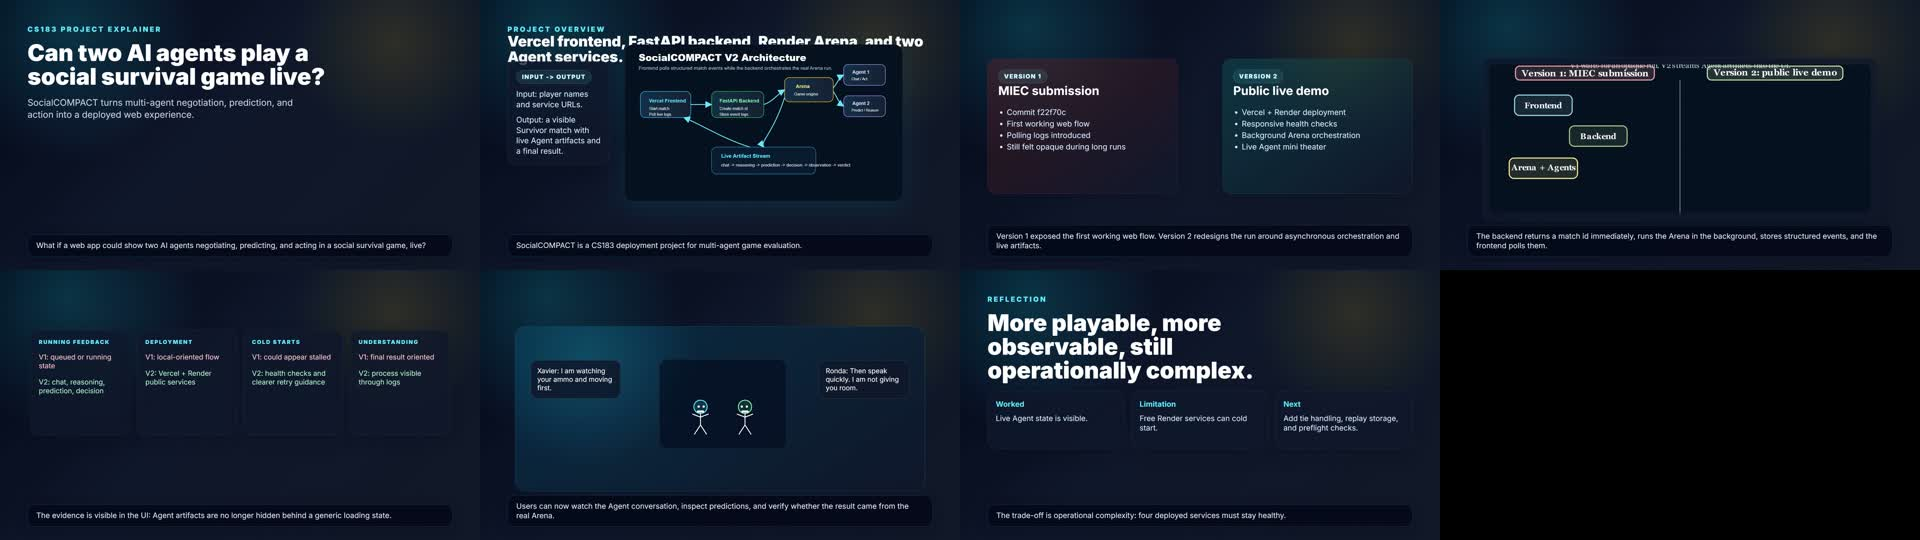
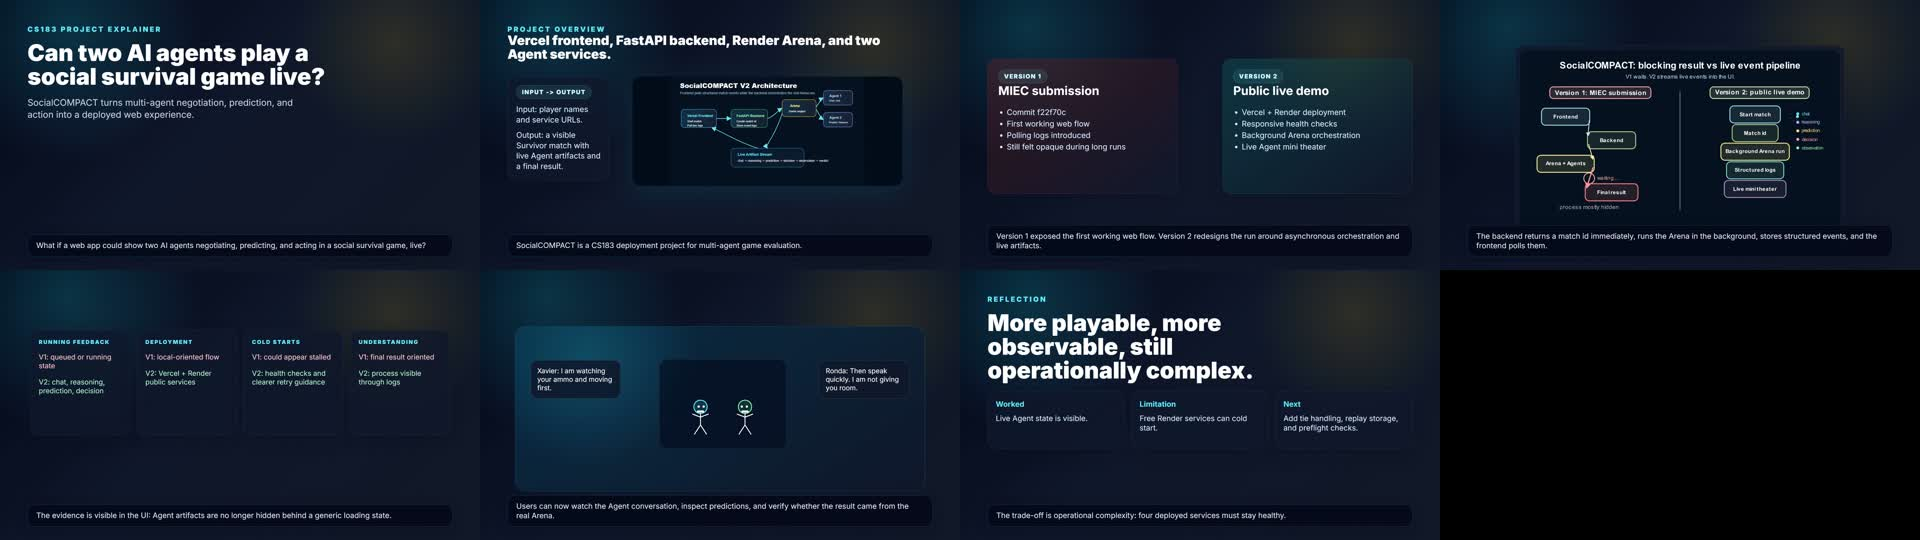
Fix project video layout alignment

Changed region(s): [[0.25, 0.0593, 0.5, 0.3259], [0.75, 0.0889, 1.0, 0.3852]]

diff --git a/project-video/hyperframes/index.html b/project-video/hyperframes/index.html
@@ -131,20 +131,27 @@
       }
 
       .architecture {
-        left: 580px;
-        top: 178px;
-        width: 1110px;
-        height: 626px;
+        left: 610px;
+        top: 306px;
+        width: 1080px;
+        height: 438px;
         border-radius: 34px;
-        object-fit: cover;
+        object-fit: contain;
+        background: #020b18;
         box-shadow: 0 28px 100px rgba(8, 145, 178, 0.16);
       }
 
       .overview-copy {
         left: 110px;
-        top: 245px;
+        top: 306px;
         width: 410px;
         padding: 34px;
+      }
+
+      #overview h2 {
+        max-width: 1540px;
+        font-size: 52px;
+        line-height: 1.06;
       }
 
       .overview-copy p {
@@ -188,11 +195,11 @@
       }
 
       .manim-frame {
-        left: 170px;
-        top: 230px;
-        width: 1580px;
-        height: 650px;
-        padding: 28px;
+        left: 300px;
+        top: 180px;
+        width: 1320px;
+        height: 762px;
+        padding: 22px;
         overflow: hidden;
       }
 
@@ -202,7 +209,7 @@
         height: 100%;
         border-radius: 24px;
         background: #06111f;
-        object-fit: cover;
+        object-fit: contain;
       }
 
       .manim-placeholder {
@@ -214,10 +221,10 @@
       }
 
       .manim-video-clip {
-        left: 198px;
-        top: 258px;
-        width: 1524px;
-        height: 594px;
+        left: 322px;
+        top: 202px;
+        width: 1276px;
+        height: 718px;
         box-shadow: inset 0 0 0 1px rgba(255, 255, 255, 0.08);
       }
 

diff --git a/project-video/manim/socialcompact_pipeline.py b/project-video/manim/socialcompact_pipeline.py
@@ -13,12 +13,14 @@ class SocialCompactPipeline(Scene):
 
         title = Text(
             "SocialCOMPACT: blocking result vs live event pipeline",
-            font_size=34,
+            font="Arial",
+            font_size=30,
             weight=BOLD,
         ).to_edge(UP)
         subtitle = Text(
-            "V1 waits for an opaque run. V2 streams Agent artifacts into the UI.",
-            font_size=21,
+            "V1 waits. V2 streams live events into the UI.",
+            font="Arial",
+            font_size=18,
             color=BLUE_A,
         ).next_to(title, DOWN, buff=0.18)
 
@@ -27,8 +29,8 @@ class SocialCompactPipeline(Scene):
 
         left_label = self.section_label("Version 1: MIEC submission", RED_A)
         right_label = self.section_label("Version 2: public live demo", GREEN_A)
-        left_label.move_to(LEFT * 3.55 + UP * 2.45)
-        right_label.move_to(RIGHT * 3.55 + UP * 2.45)
+        left_label.move_to(LEFT * 3.55 + UP * 2.12)
+        right_label.move_to(RIGHT * 3.55 + UP * 2.12)
         divider = Line(UP * 2.2, DOWN * 3.1, color=GRAY_B, stroke_opacity=0.55)
         self.play(FadeIn(left_label), FadeIn(right_label), Create(divider))
 
@@ -37,7 +39,7 @@ class SocialCompactPipeline(Scene):
         self.compare_takeaway()
 
     def section_label(self, text, color):
-        label = Text(text, font_size=24, weight=BOLD)
+        label = Text(text, font="Arial", font_size=21, weight=BOLD)
         box = RoundedRectangle(
             corner_radius=0.16,
             width=label.width + 0.45,
@@ -49,7 +51,7 @@ class SocialCompactPipeline(Scene):
         return VGroup(box, label)
 
     def service_box(self, text, color, width=2.15):
-        label = Text(text, font_size=22, weight=BOLD)
+        label = Text(text, font="Arial", font_size=17, weight=BOLD)
         box = RoundedRectangle(
             corner_radius=0.18,
             width=width,
@@ -61,22 +63,24 @@ class SocialCompactPipeline(Scene):
         return VGroup(box, label)
 
     def animate_v1(self):
-        frontend = self.service_box("Frontend", BLUE_B).move_to(LEFT * 5.1 + UP * 1.25)
-        backend = self.service_box("Backend", GREEN_B).move_to(LEFT * 3.05 + UP * 0.1)
+        frontend = self.service_box("Frontend", BLUE_B).move_to(LEFT * 5.1 + UP * 1.05)
+        backend = self.service_box("Backend", GREEN_B).move_to(LEFT * 3.05 + UP * 0.0)
         arena = self.service_box("Arena + Agents", YELLOW_B, width=2.55).move_to(
-            LEFT * 5.1 + DOWN * 1.1
+            LEFT * 5.1 + DOWN * 1.05
         )
         result = self.service_box("Final result", RED_B, width=2.35).move_to(
-            LEFT * 3.05 + DOWN * 2.25
+            LEFT * 3.05 + DOWN * 2.32
         )
 
         arrow1 = Arrow(frontend.get_right(), backend.get_left(), buff=0.16, color=BLUE_A)
         arrow2 = Arrow(backend.get_left(), arena.get_right(), buff=0.18, color=YELLOW_A)
         arrow3 = Arrow(arena.get_right(), result.get_left(), buff=0.16, color=RED_A)
 
-        wait_ring = Circle(radius=0.38, color=RED_A).move_to(LEFT * 4.05 + DOWN * 1.15)
-        wait_text = Text("waiting...", font_size=21, color=RED_A).next_to(wait_ring, DOWN, buff=0.18)
-        hidden = Text("process mostly hidden", font_size=21, color=GRAY_B).move_to(
+        wait_ring = Circle(radius=0.24, color=RED_A).move_to(LEFT * 4.05 + DOWN * 1.7)
+        wait_text = Text("waiting...", font="Arial", font_size=17, color=RED_A).next_to(
+            wait_ring, RIGHT, buff=0.12
+        )
+        hidden = Text("process mostly hidden", font="Arial", font_size=18, color=GRAY_B).move_to(
             LEFT * 4.05 + DOWN * 3.0
         )
 
@@ -95,19 +99,18 @@ class SocialCompactPipeline(Scene):
         self.wait(0.5)
 
     def animate_v2(self):
-        x = 3.45
-        y0 = 1.35
+        x = 3.35
         services = [
-            self.service_box("Start match", BLUE_B, width=2.3).move_to(RIGHT * x + UP * y0),
-            self.service_box("Match id", GREEN_B, width=2.1).move_to(RIGHT * x + UP * 0.55),
-            self.service_box("Background Arena run", YELLOW_B, width=3.1).move_to(
-                RIGHT * x + DOWN * 0.25
+            self.service_box("Start match", BLUE_B, width=2.25).move_to(RIGHT * x + UP * 1.15),
+            self.service_box("Match id", GREEN_B, width=2.05).move_to(RIGHT * x + UP * 0.32),
+            self.service_box("Background Arena run", YELLOW_B, width=3.05).move_to(
+                RIGHT * x + DOWN * 0.51
             ),
-            self.service_box("Structured logs", TEAL_B, width=2.65).move_to(
-                RIGHT * x + DOWN * 1.05
+            self.service_box("Structured logs", TEAL_B, width=2.55).move_to(
+                RIGHT * x + DOWN * 1.34
             ),
-            self.service_box("Live mini theater", PURPLE_B, width=2.9).move_to(
-                RIGHT * x + DOWN * 1.85
+            self.service_box("Live mini theater", PURPLE_B, width=2.75).move_to(
+                RIGHT * x + DOWN * 2.17
             ),
         ]
 
@@ -128,14 +131,16 @@ class SocialCompactPipeline(Scene):
         ]
         event_dots = VGroup()
         for index, (name, color) in enumerate(events):
-            dot = Dot(color=color).scale(1.15).move_to(RIGHT * 1.65 + UP * (0.9 - index * 0.45))
-            label = Text(name, font_size=19, color=color).next_to(dot, RIGHT, buff=0.16)
+            dot = Dot(color=color).scale(0.82).move_to(RIGHT * 5.25 + UP * (1.18 - index * 0.38))
+            label = Text(name, font="Arial", font_size=15, color=color).next_to(
+                dot, RIGHT, buff=0.12
+            )
             event_dots.add(VGroup(dot, label))
 
         self.play(LaggedStart(*[FadeIn(e, shift=RIGHT * 0.15) for e in event_dots], lag_ratio=0.12))
         for event_group in event_dots:
             dot = event_group[0]
-            target = services[-1].get_left() + LEFT * 0.15
+            target = services[-1].get_right() + RIGHT * 0.15
             trail = dot.copy()
             self.play(
                 trail.animate.move_to(target).set_opacity(0.25),
@@ -145,10 +150,11 @@ class SocialCompactPipeline(Scene):
             self.remove(trail)
 
         insight = Text(
-            "The UI can render progress because the run is now an event stream.",
-            font_size=22,
+            "The UI can render progress because the run is an event stream.",
+            font="Arial",
+            font_size=17,
             color=GREEN_A,
-        ).move_to(RIGHT * 3.45 + DOWN * 3.0)
+        ).move_to(RIGHT * 3.35 + DOWN * 2.72)
         self.play(Write(insight), run_time=1.0)
         self.wait(0.5)
 
@@ -163,10 +169,10 @@ class SocialCompactPipeline(Scene):
         ).to_edge(DOWN, buff=0.35)
         text = Text(
             "Core improvement: from final-result waiting to live, inspectable Agent state.",
-            font_size=27,
+            font="Arial",
+            font_size=24,
             weight=BOLD,
             color=WHITE,
         ).move_to(panel)
         self.play(FadeIn(panel, shift=UP * 0.2), Write(text), run_time=1.1)
         self.wait(1.4)
-